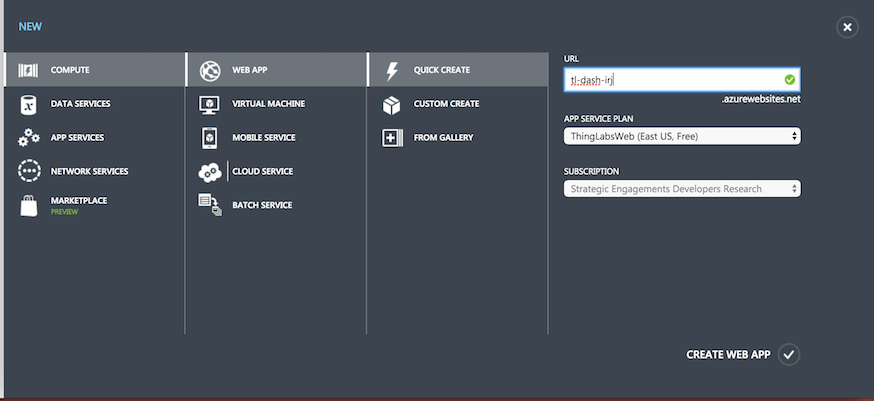
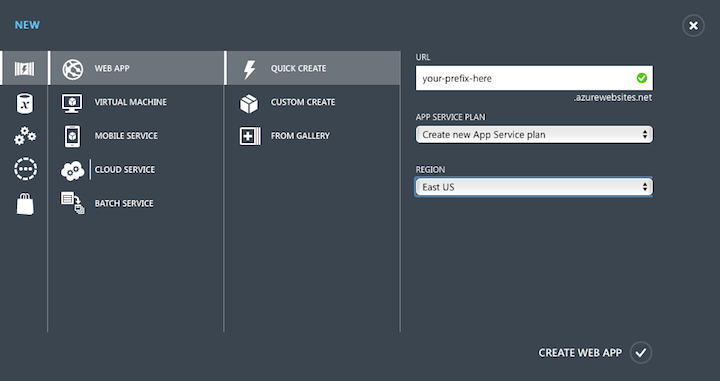
Fixes for Bill

diff --git a/pages/workshop/thingy-4-windows/06-storing-displaying-data.md b/pages/workshop/thingy-4-windows/06-storing-displaying-data.md
@@ -132,7 +132,12 @@ WITH ProcessedData as (
         TumblingWindow (second, 5), deviceId, location
 )
 
-SELECT * INTO [DeviceBI] FROM ProcessedData
+-- If you do the optional lab you will need to uncomment this line
+--   to get data to flow to PowerBI
+-- SELECT * INTO [DeviceBI] FROM ProcessedData
+
+-- Make sure this matches your Event Hub Name from above,
+-- If you've forgotten it you can go back and get it in another browser tab
 SELECT * INTO [ThingLabsEventHub] FROM ProcessedData
 {% endhighlight %}
 
@@ -152,8 +157,8 @@ lower-left corner.
 
 1. Select __+__ > __COMPUTE__ > __WEB APP__ > __QUICK CREATE__
     - URL: You can use anything that is a valid name here, such as thinglabs-eventhub-[yourname, initials, etc]
-    - SERVICE PLAN: If you created your IoT Hub in _East US_, select __East US 2__. Select the same region you created your IoT Hub in.
-    - SUBSCRIPTION: Select the subscription you've created your resources in.
+    - APP SERVICE PLAN: Select "Create a new App Service Plan".
+    - REGION: If you created your IoT Hub in _East US_, select __East US 2__. Select the same region you created your IoT Hub in.
     
     ![Configure Event Hub](/images/webappquickcreate.png)
 
@@ -166,7 +171,8 @@ lower-left corner.
     ![Git repo url](/images/thinglabs-github-webapp-repo.png)
     - Paste it into the dialog on the configuration (the External Repository Page)
     ![Git repo url](/images/webapp-config-repo.png)
-    - Click checkmark on the lower-right to configure the Web App to deploy from the ThingLabs Github Repository.
+    - Click checkmark on the lower-right to setup your deployment from the ThingLabs Github Repository
+    - Click on "Configure" to customize settings for your the Web App.
         - Turn Web Sockets on
         ![Web App Enable Web Sockets](/images/WebAppConfigureWebSockets.png)
         - Add an App Setting (Key: THINGLABS_EVENTHUB_CONNSTRING Value: Connection String from your EventHub)
